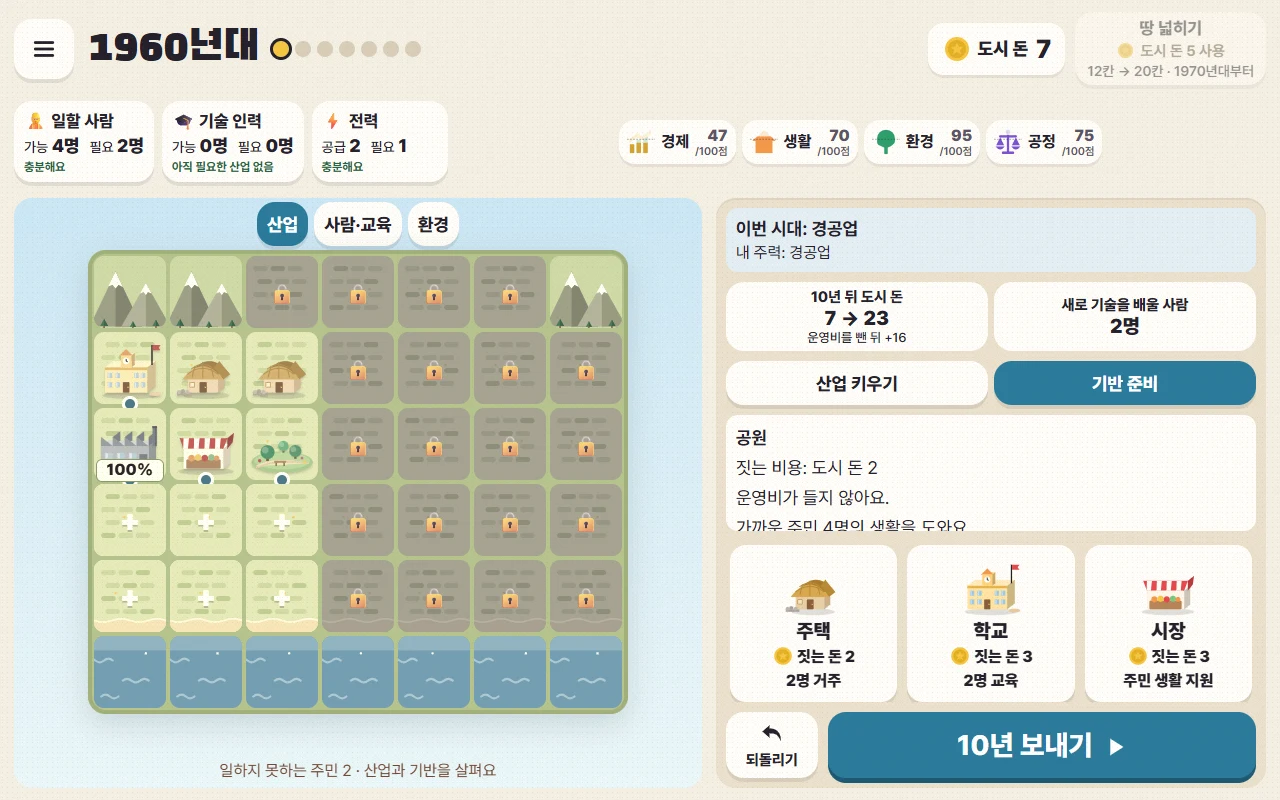
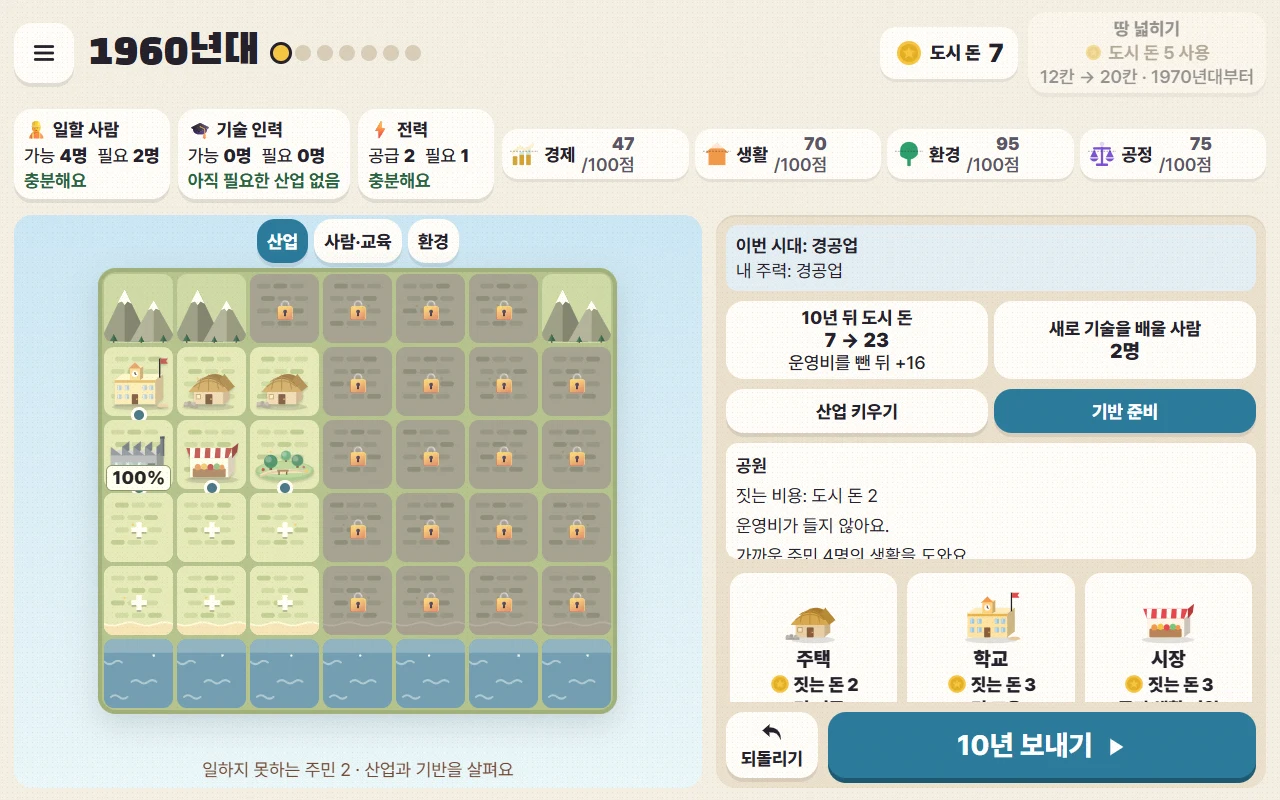
다온시 연습 단계별 숫자 안내와 18px 이상 글자 크기 보완

diff --git a/daon-city/css/style.css b/daon-city/css/style.css
@@ -1,5 +1,5 @@
 /* 다온시 70년 — 삼권 스와이프와 같은 페이퍼컷 톤 */
-:root{--paper:#F4EEE2;--paper-dark:#E9E0CF;--ink:#24212B;--soft:#5B5566;--white:#FFFDF8;--role:#2B7A9B;--role-dark:#1E5A73;--gold:#F5C542;--danger:#E5484D;--good:#2E9E6B;--shadow:0 10px 30px rgba(36,33,43,.15);--tile:80px;font-family:'Pretendard Variable',Pretendard,'Apple SD Gothic Neo','Malgun Gothic',sans-serif;color:var(--ink);background:var(--paper);font-synthesis:none}
+:root{--paper:#F4EEE2;--paper-dark:#E9E0CF;--ink:#24212B;--soft:#5B5566;--white:#FFFDF8;--role:#2B7A9B;--role-dark:#1E5A73;--gold:#F5C542;--danger:#E5484D;--good:#2E9E6B;--shadow:0 10px 30px rgba(36,33,43,.15);--tile:80px;font-family:'Pretendard Variable',Pretendard,'Apple SD Gothic Neo','Malgun Gothic',sans-serif;color:var(--ink);background:var(--paper);font-synthesis:none;font-size:18px}
 *{box-sizing:border-box;word-break:keep-all;overflow-wrap:anywhere}
 html,body{margin:0;min-height:100%;background:var(--paper)}
 body{overscroll-behavior:none;-webkit-tap-highlight-color:transparent}
@@ -21,7 +21,7 @@ button:focus-visible,a:focus-visible{outline:4px solid #DCA424;outline-offset:4p
 .icon-btn{width:60px;height:60px;min-height:60px;padding:12px;display:inline-grid;place-items:center;flex:none;border-radius:18px}
 a.icon-btn{background:var(--white);box-shadow:0 4px 0 #24212B18}
 .ico{width:28px;height:28px;flex:none}
-.count{font-size:.8em;color:var(--soft);margin-left:6px}
+.count{font-size:max(18px,.8em);color:var(--soft);margin-left:6px}
 #app{min-height:100dvh}
 
 /* ───── 타이틀 ───── */
@@ -160,7 +160,7 @@ a.icon-btn{background:var(--white);box-shadow:0 4px 0 #24212B18}
 .year-roll{position:absolute;left:50%;top:50%;transform:translate(-50%,-50%);z-index:5;white-space:nowrap;font-family:'Black Han Sans',sans-serif;font-size:clamp(64px,9vw,110px);color:var(--white);-webkit-text-stroke:3px var(--ink);text-shadow:0 6px 0 var(--ink);display:flex;gap:18px;pointer-events:none}
 .year-roll .gain{display:flex;align-items:center;gap:6px;white-space:nowrap;font-size:.55em;background:var(--white);-webkit-text-stroke:0;color:var(--ink);text-shadow:none;border-radius:20px;padding:6px 18px;box-shadow:var(--shadow)}
 .year-roll .gain .ico{width:46px;height:46px}
-.coin-chip{position:absolute;left:50%;top:10%;z-index:4;display:flex;align-items:center;gap:2px;transform:translateX(-50%);background:var(--white);border-radius:12px;padding:2px 8px;font-size:16px;font-weight:900;box-shadow:0 2px 6px #24212B40;animation:rise 1.4s ease-out both;pointer-events:none}
+.coin-chip{position:absolute;left:50%;top:10%;z-index:4;display:flex;align-items:center;gap:2px;transform:translateX(-50%);background:var(--white);border-radius:12px;padding:2px 8px;font-size:18px;font-weight:900;box-shadow:0 2px 6px #24212B40;animation:rise 1.4s ease-out both;pointer-events:none}
 .coin-chip .ico{width:18px;height:18px}
 @keyframes rise{from{opacity:0;transform:translate(-50%,10px)}20%{opacity:1}to{opacity:0;transform:translate(-50%,-46px)}}
 
@@ -271,8 +271,8 @@ a.icon-btn{background:var(--white);box-shadow:0 4px 0 #24212B18}
 .bdg .ico{width:48px;height:48px}
 .bdg h3{font-size:24px}.bdg p{font-size:18px;color:var(--soft)}
 .bdg.locked{background:#EFE7D8;border-color:#B9AE99;filter:grayscale(1)}
-.debug{position:fixed;left:6px;bottom:6px;z-index:80;display:flex;gap:6px;align-items:center;font-size:14px;background:#FFFDF8EE;border:1px dashed #555;border-radius:8px;padding:3px 6px;opacity:.5}
-.debug:hover{opacity:1}.debug button{font-size:14px;min-height:30px;padding:3px 8px;border-radius:6px}
+.debug{position:fixed;left:6px;bottom:6px;z-index:80;display:flex;gap:6px;align-items:center;font-size:18px;background:#FFFDF8EE;border:1px dashed #555;border-radius:8px;padding:3px 6px;opacity:.5}
+.debug:hover{opacity:1}.debug button{font-size:18px;min-height:30px;padding:3px 8px;border-radius:6px}
 
 /* ───── 세로 화면(태블릿 세로) ───── */
 @media (orientation:portrait){
@@ -376,40 +376,40 @@ a.icon-btn{background:var(--white);box-shadow:0 4px 0 #24212B18}
 .city-readiness .gauges{flex:1;min-width:0;gap:6px;margin:0}
 .city-readiness .gauge{min-height:44px;padding:4px 8px;gap:6px}
 .city-readiness .g-icon{width:28px;height:28px}
-.city-readiness .g-label,.city-readiness .g-num{font-size:16px}
+.city-readiness .g-label,.city-readiness .g-num{font-size:18px}
 .city-v2 .main,.city-v2 .tray{min-width:0}
 .city-v2 .tray{grid-template-rows:auto auto auto auto minmax(0,1fr) auto}
 .city-v2 .map-wrap{padding-top:52px;padding-bottom:74px;position:relative}
 .map-toolbar{display:flex;justify-content:center;gap:6px;position:absolute;top:4px;left:0;right:0;padding-bottom:8px}
 .map-toolbar button,.tray-tabs button{min-height:44px;padding:6px 10px;font-size:18px}
 .active{background:#2B7A9B;color:white}
-.city-warnings{position:absolute;bottom:4px;left:8px;right:8px;font-size:16px;line-height:1.4;text-align:center;color:#714935}
+.city-warnings{position:absolute;bottom:4px;left:8px;right:8px;font-size:18px;line-height:1.4;text-align:center;color:#714935}
 .city-warnings p{margin:2px 0}
 .industry-opportunity{background:#E3EDF3;padding:10px;border-radius:12px;font-size:18px}
-.industry-opportunity p{font-size:16px;margin-top:4px}
-.forecast small{display:block;font-size:16px;font-weight:500}
+.industry-opportunity p{font-size:18px;margin-top:4px}
+.forecast small{display:block;font-size:18px;font-weight:500}
 .tray-tabs{display:flex;gap:6px}.tray-tabs button{flex:1}
-.city-v2 .info-hint,.city-v2 .card .c-fx .fx,.city-v2 .card .c-fx b{font-size:16px}
+.city-v2 .info-hint,.city-v2 .card .c-fx .fx,.city-v2 .card .c-fx b{font-size:18px}
 .tile.unopened>.ter{filter:grayscale(.7) brightness(.7)}
 .land-lock{position:absolute;inset:0;display:grid;place-items:center;font-size:20px;pointer-events:none}
-.tile-status{position:absolute;bottom:-2px;left:2px;right:2px;font-size:clamp(12px,1.5vw,16px);font-weight:900;background:#F6FFED;border:1px solid #79985D;border-radius:6px;line-height:1.3;z-index:2;pointer-events:none}
+.tile-status{position:absolute;bottom:-2px;left:2px;right:2px;font-size:clamp(18px,1.5vw,18px);font-weight:900;background:#F6FFED;border:1px solid #79985D;border-radius:6px;line-height:1.3;z-index:2;pointer-events:none}
 .tile-status.short{background:#FFF0DA;border-color:#CD7A35;color:#85421C}
 .tile-alert{position:absolute;top:-5px;left:-5px;font-size:21px;z-index:3;pointer-events:none}
-.tile-level{position:absolute;top:-3px;right:1px;font-size:16px;font-weight:900;background:#F5C542;border-radius:5px;padding:0 4px;z-index:2}
+.tile-level{position:absolute;top:-3px;right:1px;font-size:18px;font-weight:900;background:#F5C542;border-radius:5px;padding:0 4px;z-index:2}
 .tile.lens-good{outline:3px solid #478FBE;outline-offset:-3px}.tile.lens-bad{outline:3px solid #E28348;outline-offset:-3px}
 .tile.in-range,.tile.preview-range{box-shadow:inset 0 0 0 4px #6B9BD9}.tile.can-convert{outline:3px dashed #9668A7}
 .tile .bld{filter:drop-shadow(0 2px 1px #24212B30)}
 .city-v2 .pop{max-height:calc(100dvh - 24px);overflow:auto}
 .city-v2 .pop-actions{display:flex;flex-wrap:wrap;gap:6px}
-.city-v2 .pop-actions button{font-size:17px;padding:8px;min-height:44px}
-.expand-btn{font-size:16px;padding:8px;min-height:44px}
+.city-v2 .pop-actions button{font-size:18px;padding:8px;min-height:44px}
+.expand-btn{font-size:18px;padding:8px;min-height:44px}
 .era-report{font-size:18px;line-height:1.4;background:#EDF3E7;padding:12px;border-radius:12px;margin:10px 0}
 .industry-record{font-size:18px;text-align:center}.v2-title-note{font-size:22px}
-.legacy-note{font-size:16px;color:var(--soft);max-width:500px;text-align:center}
+.legacy-note{font-size:18px;color:var(--soft);max-width:500px;text-align:center}
 .end-photo>.bld{height:140px;width:100%;padding:12px}.final-map .map{--tile:clamp(24px,4vw,60px)}
 @media(max-width:1000px){
- .city-readiness .gauges{flex-basis:100%}.city-readiness>button{flex:1;font-size:16px}
- .industry-opportunity{font-size:16px}.forecast{font-size:18px}.tray-tabs button{font-size:16px}
+ .city-readiness .gauges{flex-basis:100%}.city-readiness>button{flex:1;font-size:18px}
+ .industry-opportunity{font-size:18px}.forecast{font-size:18px}.tray-tabs button{font-size:18px}
 }
 @media(orientation:portrait){
  .city-v2{height:auto;min-height:100dvh;overflow:visible;padding-bottom:106px}
@@ -419,41 +419,41 @@ a.icon-btn{background:var(--white);box-shadow:0 4px 0 #24212B18}
 }
 @media(max-width:700px){
  .city-v2 .main{display:flex;flex-direction:column}.city-v2 .map-wrap{height:410px;min-height:410px;padding:54px 0 74px}
- .city-v2 .city-readiness{gap:4px}.city-readiness>button{font-size:14px;white-space:nowrap;flex:1;padding:6px 4px}
+ .city-v2 .city-readiness{gap:4px}.city-readiness>button{font-size:18px;white-space:nowrap;flex:1;padding:6px 4px}
  .city-readiness .gauges{flex-wrap:nowrap}.city-readiness .gauge{flex:1;min-width:0;gap:3px;padding:4px}
- .city-readiness .g-icon{width:22px;height:22px}.city-readiness .g-label,.city-readiness .g-num{font-size:14px;white-space:nowrap}
+ .city-readiness .g-icon{width:22px;height:22px}.city-readiness .g-label,.city-readiness .g-num{font-size:18px;white-space:nowrap}
  .city-v2 .decade{display:block}.city-v2 .timeline{margin-top:6px}
- .map-toolbar button{font-size:16px}.city-v2 .res{min-width:0;gap:4px}
- .city-v2 .res-item{padding:6px 4px;min-height:44px}.city-v2 .res-item b{font-size:20px}.expand-btn{font-size:14px;padding:6px 8px}
- .city-v2 .cards,.city-v2 .tray{max-height:none}.tile-status{font-size:12px}
+ .map-toolbar button{font-size:18px}.city-v2 .res{min-width:0;gap:4px}
+ .city-v2 .res-item{padding:6px 4px;min-height:44px}.city-v2 .res-item b{font-size:20px}.expand-btn{font-size:18px;padding:6px 8px}
+ .city-v2 .cards,.city-v2 .tray{max-height:none}.tile-status{font-size:18px}
 }
 
 .city-v2 .card.locked .c-fx{visibility:hidden}
 
-@media(max-width:700px){.city-readiness>button b{display:block;font-size:18px}.city-readiness>button{font-size:13px}}
+@media(max-width:700px){.city-readiness>button b{display:block;font-size:18px}.city-readiness>button{font-size:18px}}
 
 /* 뜻·상태·행동을 분리한 숫자 안내와 직접 조작 연습. */
 .city-v2 .res-item{font-size:18px}.city-v2 .res-item span{display:flex;align-items:center;gap:8px}.city-v2 .res-item b{font-size:26px}
-.action-cost{display:flex;align-items:center;justify-content:center;gap:5px;font-size:15px;font-weight:700;color:#65553B}.action-cost .ico{width:19px;height:19px}
-.expand-btn{display:grid;gap:3px;min-width:178px;text-align:center;font-size:17px;padding:6px 12px}.expand-btn small{font-size:14px;font-weight:600}
-.city-readiness .readiness-card{display:grid;gap:4px;min-width:136px;text-align:left;padding:8px 10px;font-size:17px}
-.metric-title{font-weight:800}.metric-numbers{display:flex;gap:10px;font-size:14px;font-weight:500;white-space:nowrap}.metric-numbers b{font-size:18px;font-weight:900}
-.readiness-card>small{font-size:12px;color:#286342;font-weight:700}.readiness-card>small.short{color:#A3472C}.g-num small{display:block;font-size:11px;font-weight:600}
-.city-v2 .forecast{display:flex;gap:6px;align-items:stretch}.forecast>button{flex:1;font-size:15px;min-height:44px;padding:6px;background:#FFFDF8;box-shadow:none}.forecast>button b{display:block;font-size:20px}.forecast>button small{font-size:13px}
-.city-v2 .cost{font-size:16px;gap:3px}.city-v2 .card .c-row{flex-wrap:wrap}.info-lines details{margin-top:8px}.info-lines summary,.help-clear summary{cursor:pointer;font-size:16px;line-height:1.5;font-weight:700;color:#2B7A9B}
+.action-cost{display:flex;align-items:center;justify-content:center;gap:5px;font-size:18px;font-weight:700;color:#65553B}.action-cost .ico{width:19px;height:19px}
+.expand-btn{display:grid;gap:3px;min-width:178px;text-align:center;font-size:18px;padding:6px 12px}.expand-btn small{font-size:18px;font-weight:600}
+.city-readiness .readiness-card{display:grid;gap:4px;min-width:136px;text-align:left;padding:8px 10px;font-size:18px}
+.metric-title{font-weight:800}.metric-numbers{display:flex;gap:10px;font-size:18px;font-weight:500;white-space:nowrap}.metric-numbers b{font-size:18px;font-weight:900}
+.readiness-card>small{font-size:18px;color:#286342;font-weight:700}.readiness-card>small.short{color:#A3472C}.g-num small{display:block;font-size:18px;font-weight:600}
+.city-v2 .forecast{display:flex;gap:6px;align-items:stretch}.forecast>button{flex:1;font-size:18px;min-height:44px;padding:6px;background:#FFFDF8;box-shadow:none}.forecast>button b{display:block;font-size:20px}.forecast>button small{font-size:18px}
+.city-v2 .cost{font-size:18px;gap:3px}.city-v2 .card .c-row{flex-wrap:wrap}.info-lines details{margin-top:8px}.info-lines summary,.help-clear summary{cursor:pointer;font-size:18px;line-height:1.5;font-weight:700;color:#2B7A9B}
 .city-v2 .pop{width:min(420px,calc(100vw - 16px));padding:12px;animation:none}.city-v2 .pop-head{position:sticky;top:-12px;z-index:2;background:#FFFDF8;padding:6px 0;margin-bottom:8px}.pop-head b{flex:1}.pop-head .icon-btn{box-shadow:none}
-.city-v2 .pop-actions{display:grid;grid-template-columns:1fr;gap:8px}.city-v2 .pop-actions .operation{display:grid;gap:4px;min-height:72px;padding:8px 10px;text-align:left;border:1px solid #D9C9AE;background:#F7F1E6;box-shadow:none}.operation strong{font-size:18px}.operation .action-cost{justify-content:flex-start}.operation small{font-size:15px;font-weight:500;line-height:1.4}
-.upgrade-done{padding:8px;background:#E9F1E4;border-radius:10px;font-size:16px}.operation-note{font-size:14px;line-height:1.4;color:#655E69;margin-top:10px}
-.help-clear{gap:14px}.help-clear h2{font-size:30px}.help-clear .help-meaning{font-size:19px;line-height:1.5}.help-compare{display:grid;grid-template-columns:1fr 1fr;gap:12px}.help-compare>div{background:#FFFDF8;border:2px solid #D8CFBD;border-radius:16px;padding:14px;display:grid;gap:10px}.help-compare span{font-size:17px;line-height:1.4}.help-compare strong{font-size:36px;line-height:1.2;color:#2B7A9B}
-.help-clear .help-status{font-size:21px;font-weight:800;background:#EDF3E6;border-radius:14px;padding:12px}.help-advice{background:#E3EDF3;border-radius:14px;padding:14px}.help-advice>b{display:block;font-size:17px;margin-bottom:6px}.help-clear .help-advice p{font-size:19px;line-height:1.5}.help-clear details p{font-size:17px;margin-top:6px}.help-buttons{display:flex;gap:10px;flex-wrap:wrap}.help-buttons button{flex:1;font-size:19px;min-height:48px;padding:10px 16px}
-.help-score{display:grid;gap:6px;padding:14px;background:#FFFDF8;border-radius:16px}.help-score strong{font-size:38px;color:#2B7A9B}.help-score strong small{font-size:18px;color:#5B5566}.help-score meter{width:100%;height:22px}.help-score>span{font-size:16px}
-.city-v2 .tray-foot .undo-labeled{width:92px;display:grid;gap:2px;padding:8px}.undo-labeled .ico{width:24px;height:24px;margin:auto}.undo-labeled small{font-size:15px}
-.practice-entry{font-size:22px}.practice-panel{padding:10px 12px;background:#E2EFF4;border:2px solid #2B7A9B;border-radius:14px;font-size:17px;line-height:1.4}.practice-heading{display:flex;align-items:center;justify-content:space-between;gap:8px}.practice-heading .text-btn{font-size:14px;min-height:36px;padding:6px}.practice-panel>strong{display:block;font-size:19px;margin:5px 0}.practice-panel>p{font-size:16px}.practice-panel>small{display:block;font-size:13px;margin-top:6px}.practice-panel>.primary{font-size:17px;padding:8px;min-height:44px;margin-top:6px}
+.city-v2 .pop-actions{display:grid;grid-template-columns:1fr;gap:8px}.city-v2 .pop-actions .operation{display:grid;gap:4px;min-height:72px;padding:8px 10px;text-align:left;border:1px solid #D9C9AE;background:#F7F1E6;box-shadow:none}.operation strong{font-size:18px}.operation .action-cost{justify-content:flex-start}.operation small{font-size:18px;font-weight:500;line-height:1.4}
+.upgrade-done{padding:8px;background:#E9F1E4;border-radius:10px;font-size:18px}.operation-note{font-size:18px;line-height:1.4;color:#655E69;margin-top:10px}
+.help-clear{gap:14px}.help-clear h2{font-size:30px}.help-clear .help-meaning{font-size:19px;line-height:1.5}.help-compare{display:grid;grid-template-columns:1fr 1fr;gap:12px}.help-compare>div{background:#FFFDF8;border:2px solid #D8CFBD;border-radius:16px;padding:14px;display:grid;gap:10px}.help-compare span{font-size:18px;line-height:1.4}.help-compare strong{font-size:36px;line-height:1.2;color:#2B7A9B}
+.help-clear .help-status{font-size:21px;font-weight:800;background:#EDF3E6;border-radius:14px;padding:12px}.help-advice{background:#E3EDF3;border-radius:14px;padding:14px}.help-advice>b{display:block;font-size:18px;margin-bottom:6px}.help-clear .help-advice p{font-size:19px;line-height:1.5}.help-clear details p{font-size:18px;margin-top:6px}.help-buttons{display:flex;gap:10px;flex-wrap:wrap}.help-buttons button{flex:1;font-size:19px;min-height:48px;padding:10px 16px}
+.help-score{display:grid;gap:6px;padding:14px;background:#FFFDF8;border-radius:16px}.help-score strong{font-size:38px;color:#2B7A9B}.help-score strong small{font-size:18px;color:#5B5566}.help-score meter{width:100%;height:22px}.help-score>span{font-size:18px}
+.city-v2 .tray-foot .undo-labeled{width:92px;display:grid;gap:2px;padding:8px}.undo-labeled .ico{width:24px;height:24px;margin:auto}.undo-labeled small{font-size:18px}
+.practice-entry{font-size:22px}.practice-panel{padding:10px 12px;background:#E2EFF4;border:2px solid #2B7A9B;border-radius:14px;font-size:18px;line-height:1.4}.practice-heading{display:flex;align-items:center;justify-content:space-between;gap:8px}.practice-heading .text-btn{font-size:18px;min-height:36px;padding:6px}.practice-panel>strong{display:block;font-size:19px;margin:5px 0}.practice-panel>p{font-size:18px}.practice-panel>small{display:block;font-size:18px;margin-top:6px}.practice-panel>.primary{font-size:18px;padding:8px;min-height:44px;margin-top:6px}
 .tile.lesson-target{outline:4px solid #F5C542;outline-offset:2px;z-index:3;box-shadow:0 0 0 7px #FFFDF8;animation:lesson-glow 1.3s ease-in-out infinite}.lesson-success{font-size:18px;font-weight:800;color:#286342}.practice-feedback h2{font-size:30px}.practice-feedback p,.practice-complete p{font-size:21px;line-height:1.5}
 @keyframes lesson-glow{50%{box-shadow:0 0 0 7px #F5C54288}}
 @media(max-width:1100px){.city-readiness .gauges{flex-basis:100%}.city-readiness .readiness-card{flex:1}}
 @media(orientation:portrait){.city-v2 .building-info{max-height:160px}}
-@media(max-width:700px){.city-v2 .res{width:100%}.city-v2 .res-item{padding:8px;font-size:16px}.city-v2 .res-item span{display:grid;gap:0}.city-v2 .res-item b{font-size:24px}.expand-btn{min-width:0;font-size:16px}.city-readiness .readiness-card{min-width:0;padding:6px 4px;font-size:13px;gap:4px;text-align:center}.metric-numbers{display:grid;gap:0;white-space:normal;font-size:12px}.city-readiness .readiness-card .metric-numbers b{display:inline;font-size:17px}.readiness-card>small{font-size:11px;white-space:normal}.city-v2 .tray-foot .go{font-size:22px;padding:10px}.help-clear h2,.practice-feedback h2{font-size:25px}.help-compare{gap:8px}.help-compare>div{padding:10px}.help-compare span{font-size:15px}.help-compare strong{font-size:30px}.help-buttons{display:grid;grid-template-columns:1fr}.help-clear .help-meaning,.help-clear .help-advice p{font-size:18px}.help-clear .help-status{font-size:19px}.help-clear .help-score strong{font-size:34px}.practice-panel>p{font-size:16px}}
+@media(max-width:700px){.city-v2 .res{width:100%}.city-v2 .res-item{padding:8px;font-size:18px}.city-v2 .res-item span{display:grid;gap:0}.city-v2 .res-item b{font-size:24px}.expand-btn{min-width:0;font-size:18px}.city-readiness .readiness-card{min-width:0;padding:6px 4px;font-size:18px;gap:4px;text-align:center}.metric-numbers{display:grid;gap:0;white-space:normal;font-size:18px}.city-readiness .readiness-card .metric-numbers b{display:inline;font-size:18px}.readiness-card>small{font-size:18px;white-space:normal}.city-v2 .tray-foot .go{font-size:22px;padding:10px}.help-clear h2,.practice-feedback h2{font-size:25px}.help-compare{gap:8px}.help-compare>div{padding:10px}.help-compare span{font-size:18px}.help-compare strong{font-size:30px}.help-buttons{display:grid;grid-template-columns:1fr}.help-clear .help-meaning,.help-clear .help-advice p{font-size:18px}.help-clear .help-status{font-size:19px}.help-clear .help-score strong{font-size:34px}.practice-panel>p{font-size:18px}}
 
 .practice-city{grid-template-rows:auto auto auto minmax(0,1fr)}
 .practice-city[data-lesson-kind="advance"] [data-action="advance"],.practice-city[data-lesson-kind="expand"] [data-action="expand"],.practice-city[data-lesson-kind="upgrade"] [data-action="pop-upgrade"],.practice-city[data-lesson-kind="move"] [data-action="pop-move"]{outline:4px solid #E6AF15;outline-offset:3px}
@@ -461,4 +461,21 @@ a.icon-btn{background:var(--white);box-shadow:0 4px 0 #24212B18}
 
 .city-v2 .pop{transition-property:none}
 
-.city-v2 .building-info{max-height:116px}.practice-city .tray{grid-template-rows:auto auto minmax(0,1fr) auto}
+.city-v2 .building-info{max-height:116px}.practice-city .tray{grid-template-rows:minmax(0,1fr) auto}
+
+/* 글씨를 줄이지 않고 설명과 숫자를 읽을 수 있는 폭으로 줄바꿈한다. */
+.city-readiness .gauges{flex-wrap:wrap}.city-readiness .gauge{flex:1 1 116px}
+.city-readiness .g-label,.city-readiness .g-num{white-space:normal}.city-readiness .metric-numbers{white-space:normal;flex-wrap:wrap}
+.practice-city .cards{grid-template-columns:minmax(0,1fr)}
+.practice-numbers{background:#FFFDF8;border:2px solid #92B8C7;border-radius:16px;padding:12px;display:grid;gap:10px;line-height:1.4}
+.practice-numbers h3{font-size:24px;color:#236B86}.practice-numbers>div{display:grid;grid-template-columns:1fr 1fr;gap:12px}
+.practice-numbers>div>div{display:flex;flex-direction:column;gap:6px;background:#EAF3F6;border-radius:12px;padding:12px}
+.practice-numbers span,.practice-numbers p{font-size:20px}.practice-numbers strong{font-size:36px;color:#236B86}
+.practice-city .card{display:grid;grid-template-columns:84px minmax(0,1fr);text-align:left;gap:8px}
+.practice-city .card .c-icon{grid-row:1/4;width:84px;height:84px}.practice-city .card .c-name{text-align:left}
+@media(max-width:700px){.city-readiness .readiness-card{flex:1 1 130px;white-space:normal}.practice-numbers{padding:12px;gap:12px}.practice-numbers span,.practice-numbers p{font-size:18px}.practice-numbers strong{font-size:30px}.practice-numbers>div{gap:8px}}
+
+.practice-numbers{gap:8px}.practice-numbers>div{gap:8px}.practice-numbers>div>div{padding:8px;gap:4px}.practice-numbers span,.practice-numbers p,.practice-numbers summary{font-size:18px}.practice-numbers summary{cursor:pointer;color:#236B86;font-weight:800}.practice-numbers details p{margin-top:6px}
+
+/* 연습은 사람·기술·전력에 집중하고 도시의 종합 평가는 본 게임에서 본다. */
+.practice-city .city-readiness .gauges{display:none}.practice-city .readiness-card{padding:6px 10px;gap:2px}.practice-numbers{gap:6px}

diff --git a/daon-city/js/game.js b/daon-city/js/game.js
@@ -262,9 +262,9 @@
         <div class="res"><button data-action="help" data-help="money" class="res-item money-res" aria-label="도시 돈 ${G.money}, 도움말">${icon('coin')}<span>도시 돈 <b class="money-amount">${G.money}</b></span></button>${btn('expand', expansion, 'expand-btn', G.land >= 2 || d < (G.land === 0 ? 1 : 3) || G.money < D.rules.expandCost[G.land] ? 'disabled' : '')}</div></header>
       <div class="city-readiness">${metric('people', '👷 일할 사람', forecast.workers, forecast.jobs, '명')}${metric('tech', '🎓 기술 인력', forecast.skilled, forecast.skilledNeed, '명')}${metric('power', '⚡ 전력', forecast.supply, forecast.energy, '', '공급')}${gaugesHtml(g)}</div>${practice ? practicePanel() : ''}
       <div class="main"><div class="map-wrap"><div class="map-toolbar">${relocating !== null ? btn('cancel-move', '옮기기 취소', 'secondary') : [['industry', '산업'], ['people', '사람·교육'], ['env', '환경']].map(([id, label]) => btn('lens', label, lens === id ? 'active' : '', `data-lens="${id}" aria-pressed="${lens === id}"`)).join('')}</div>${mapHtml()}<div class="city-warnings" role="status">${relocating !== null ? '빈 땅을 누르면 건물이 옮겨져요 · 도시 돈 2 사용' : forecast.warnings.map(v => `<p>${esc(v)}</p>`).join('') || '<p>도시의 기반이 준비됐어요. 산업의 기회를 살펴봐요.</p>'}</div></div>
-      <aside class="tray">${practice ? '' : `<div class="industry-opportunity"><b>이번 시대: ${D.categories[era(d).real].name}</b><p>내 주력: ${leaders.length ? D.categories[leaders[0][0]].name : '첫 산업을 준비해요'}</p></div>`}<div class="forecast"><button data-action="help" data-help="money">10년 뒤 도시 돈 <b>${G.money} → ${Math.max(0, G.money + forecast.income)}</b><small>운영비를 뺀 뒤 ${forecast.income >= 0 ? '+' : ''}${forecast.income}</small></button><button data-action="help" data-help="tech">새로 기술을 배울 사람 <b>${forecast.techGain}명</b></button></div>
-      <div class="tray-tabs">${btn('tray', '산업 키우기', trayMode === 'industry' ? 'active' : '', 'data-tray="industry"')}${btn('tray', '기반 준비', trayMode === 'support' ? 'active' : '', 'data-tray="support"')}</div>
-      ${sel && !practice ? `<section class="building-info"><strong>${B[sel].name}</strong>${buildingInfo(sel)}</section>` : practice ? '' : '<div class="info-hint">카드·건물·숫자를 누르면 뜻과 할 일을 알려 줘요.</div>'}<div class="cards" role="list">${cards.map(cardHtml).join('')}</div>
+      <aside class="tray">${practice ? '' : `<div class="industry-opportunity"><b>이번 시대: ${D.categories[era(d).real].name}</b><p>내 주력: ${leaders.length ? D.categories[leaders[0][0]].name : '첫 산업을 준비해요'}</p></div>`}${practice ? '' : `<div class="forecast"><button data-action="help" data-help="money">10년 뒤 도시 돈 <b>${G.money} → ${Math.max(0, G.money + forecast.income)}</b><small>운영비를 뺀 뒤 ${forecast.income >= 0 ? '+' : ''}${forecast.income}</small></button><button data-action="help" data-help="tech">새로 기술을 배울 사람 <b>${forecast.techGain}명</b></button></div>
+      <div class="tray-tabs">${btn('tray', '산업 키우기', trayMode === 'industry' ? 'active' : '', 'data-tray="industry"')}${btn('tray', '기반 준비', trayMode === 'support' ? 'active' : '', 'data-tray="support"')}</div>`}
+      ${sel && !practice ? `<section class="building-info"><strong>${B[sel].name}</strong>${buildingInfo(sel)}</section>` : practice ? '' : '<div class="info-hint">카드·건물·숫자를 누르면 뜻과 할 일을 알려 줘요.</div>'}<div class="cards" role="list">${practice ? practiceNumbers() : ''}${cards.map(cardHtml).join('')}</div>
       <div class="tray-foot">${btn('undo', `${icon('undo')}<small>되돌리기</small>`, 'icon-btn undo-labeled', `aria-label="계획 되돌리기, 쓴 돈 돌려받기" ${G.actions.length && !practice ? '' : 'disabled'}`)}${btn('advance', `10년 보내기 ${icon('play')}`, 'primary go')}</div></aside></div>${pop !== null ? popHtml() : ''}</section>`);
     fitMap(); positionPop(); if (matchMedia('(orientation: portrait)').matches) { const c = app.querySelector('.card.sel'), cards = app.querySelector('.cards'); if (c && cards) cards.scrollLeft = c.offsetLeft - cards.offsetLeft; }
     if (practice) { app.querySelector('[data-action="expand"]').disabled ||= practice.pending || PRACTICE[practice.step].kind !== 'expand'; app.querySelector('[data-action="advance"]').disabled = practice.pending || PRACTICE[practice.step].kind !== 'advance'; checkPractice(); }
@@ -513,11 +513,11 @@
   /* ───── 기존 도시와 저장을 건드리지 않는 직접 조작 연습 ───── */
   const PRACTICE = [
     { kind: 'place', card: 'textile', tile: 21, title: '돈을 써서 첫 산업 짓기', task: '섬유 공장 카드를 고른 뒤 빛나는 땅을 눌러요. 짓는 돈 3이 무슨 뜻인지 확인해요.' },
-    { kind: 'place', card: 'school', tile: 7, title: '학교로 다음 산업 준비하기', task: '기반 준비에서 학교를 골라 주택 옆 빛나는 땅에 지어요. 기술은 배우는 시간이 필요해요.' },
+    { kind: 'place', card: 'school', tile: 7, title: '학교로 다음 산업 준비하기', task: '학교 카드를 골라 주택 옆 빛나는 땅에 지어요. 기술은 배우는 시간이 필요해요.' },
     { kind: 'upgrade', tile: 8, title: '같은 땅에서 집 키우기', task: '빛나는 주택을 누르고 건물 키우기를 골라요. 쓸 돈과 늘어나는 인원은 서로 다른 숫자예요.' },
     { kind: 'advance', title: '10년 운영한 결과 보기', task: '10년 보내기를 눌러요. 산업이 돈을 벌고, 학교의 주민이 기술을 배워요.' },
     { kind: 'place', card: 'steel', tile: 22, title: '새 산업에 필요한 전력 읽기', task: '1970년대의 제철소를 빛나는 땅에 지어요. 가능한 사람과 필요한 전력을 비교해요.' },
-    { kind: 'place', card: 'power', tile: 28, title: '부족한 전력 채우기', task: '기반 준비에서 화력 발전소를 골라 빛나는 땅에 지어요. 공장이 얼마나 돌아가는지 다시 확인해요.' },
+    { kind: 'place', card: 'power', tile: 28, title: '부족한 전력 채우기', task: '화력 발전소 카드를 골라 빛나는 땅에 지어요. 공장이 얼마나 돌아가는지 다시 확인해요.' },
     { kind: 'move', tile: 22, to: 30, title: '오염 피해 주택 지키기', task: '😷 주택 가까이 있는 빛나는 제철소를 누르고 다른 땅으로 옮기기를 골라요. 새로 빛나는 빈 땅으로 옮겨요.' },
     { kind: 'expand', title: '돈과 땅의 칸 수 구분하기', task: '땅 넓히기를 눌러요. 도시 돈 5를 쓰면 땅이 5칸 늘어나는 것인지 확인해요.' }
   ];
@@ -534,7 +534,21 @@
   }
   function practicePanel() {
     const step = PRACTICE[practice.step];
-    return `<section class="practice-panel" aria-label="연습 안내"><div class="practice-heading"><b>연습 ${practice.step + 1}/${PRACTICE.length}</b>${btn('practice-exit', '연습 나가기', 'text-btn')}</div><strong>${step.title}</strong><p>${step.task}</p><small>연습용 도시예요. 내 도시 저장과 엔딩 도감은 그대로예요.</small>${practice.pending ? btn('practice-next', '다음 연습으로', 'primary') : ''}</section>`;
+    return `<section class="practice-panel" aria-label="연습 안내"><div class="practice-heading"><b>연습 ${practice.step + 1}/${PRACTICE.length}</b>${btn('practice-exit', '연습 나가기', 'text-btn')}</div><strong>${step.title}</strong><small>연습용 도시예요. 내 도시 저장과 엔딩 도감은 그대로예요.</small>${practice.pending ? btn('practice-next', '다음 연습으로', 'primary') : ''}</section>`;
+  }
+  function practiceNumbers() {
+    const p = E.production(G), steel = p.industries.find(r => r.id === 'steel');
+    const focus = [
+      [['지금 가진 도시 돈', G.money], ['공장 짓는 비용', `${B.textile.cost} 사용`], '돈은 건물을 짓는 비용이에요. 일자리 2개는 공장에서 일할 사람 수예요.'],
+      [['지금 기술을 배운 사람', `${p.skilled}명`], ['학교의 교육 자리', `${B.school.education}명`], '학교를 지은 뒤 10년을 보내야 주민이 기술을 배워요.'],
+      [['이 주택의 살 곳', `${B.house.homes * E.level(G.tiles[8])}명`], ['집 키우는 비용', `${B.house.cost} 사용`], '살 곳을 늘리면 더 많은 주민이 살 수 있어요. 일자리도 함께 준비해요.'],
+      [['10년 뒤 받을 도시 돈', `${p.income >= 0 ? '+' : ''}${p.income}`], ['새로 기술을 배울 사람', `${p.techGain}명`], '산업이 번 돈에서 운영비를 뺀 결과예요. 배운 기술은 다음 산업의 준비가 돼요.'],
+      [['공급하는 전력', p.supply], ['공장이 쓰는 전력', p.energy], '제철소를 지은 뒤 두 숫자를 비교해요. 전력이 부족하면 생산량이 줄어요.'],
+      [['제철소가 돌아가는 정도', `${Math.round((steel?.rate || 0) * 100)}%`], ['오염 피해 주택', `${p.exposed.length}곳`], '발전소로 생산량을 늘려요. 😷 표시가 뜨는 주택의 피해도 함께 확인해요.'],
+      [['오염 피해 주택', `${p.exposed.length}곳`], ['공장을 옮기는 비용', '2 사용'], '공장을 주택에서 멀리 옮겨요. 피해 주택 수가 어떻게 바뀌는지 살펴요.'],
+      [['지금 건설 가능한 땅', `${landCount(G.land)}칸`], ['땅을 넓히는 비용', `${D.rules.expandCost[0]} 사용`], '5는 쓸 돈이에요. 땅의 넓이는 칸으로 읽어요. 비용과 효과를 구분해요.']
+    ][practice.step];
+    return `<section class="practice-numbers" role="listitem" aria-label="지금 볼 숫자"><h3>지금 볼 숫자</h3><div>${focus.slice(0, 2).map(([label, value]) => `<div><span>${label}</span><strong>${value}</strong></div>`).join('')}</div><p>${PRACTICE[practice.step].task}</p><details><summary>이 숫자의 뜻</summary><p>${focus[2]}</p></details></section>`;
   }
   function checkPractice() {
     if (practice.pending) return;

diff --git a/daon-city/tests/verify-learning.py b/daon-city/tests/verify-learning.py
@@ -28,6 +28,8 @@ with sync_playwright() as pw:
           localStorage.setItem('daon-city-v2-game',JSON.stringify(s));localStorage.setItem('daon-city-v2',JSON.stringify({endings:['tech'],badges:['history'],tutorialSeen:true,sound:false}));localStorage.setItem('daon-city-v1-game','옛 기록');
         }""");p.reload();before=stores(p);click(p,'continue')
         assert '도시 돈' in p.locator('.money-res').inner_text()
+        small=p.locator('.city-v2').evaluate("""el=>[...el.querySelectorAll('*')].filter(n=>!n.closest('svg')&&n.checkVisibility()&&[...n.childNodes].some(c=>c.nodeType===3&&c.textContent.trim())&&parseFloat(getComputedStyle(n).fontSize)<18).map(n=>({text:n.textContent,size:getComputedStyle(n).fontSize}))""")
+        assert not small,small
         assert '사용' in p.locator('[data-action="expand"]').inner_text() and '12칸 → 20칸' in p.locator('[data-action="expand"]').inner_text()
         for key in ['people','tech','power','money','econ','life','env','fair']:
             p.locator(f'[data-action="help"][data-help="{key}"]').first.click();p.wait_for_selector('.help-clear')
@@ -42,6 +44,14 @@ with sync_playwright() as pw:
         if w>=h:
             assert p.locator('.tray-foot').bounding_box()['y']+p.locator('.tray-foot').bounding_box()['height']<=h+1
         assert stores(p)==before
+        assert p.locator('.practice-numbers').count()==1 and '18' in p.locator('.practice-numbers').inner_text()
+        small=p.locator('.city-v2').evaluate("""el=>[...el.querySelectorAll('*')].filter(n=>!n.closest('svg')&&n.checkVisibility()&&[...n.childNodes].some(c=>c.nodeType===3&&c.textContent.trim())&&parseFloat(getComputedStyle(n).fontSize)<18).map(n=>({text:n.textContent,size:getComputedStyle(n).fontSize}))""")
+        assert not small,small
+        assert p.evaluate('document.documentElement.scrollWidth<=innerWidth+1')
+        if w>=h:
+            rect=p.locator('.card').bounding_box();foot=p.locator('.tray-foot').bounding_box()
+            assert rect['y']+rect['height']<=foot['y']+1,(rect,foot)
+        shot(p,f'practice-numbers-{w}')
         # 다른 땅을 누르거나 다음 시대를 먼저 보낼 수 없다.
         assert p.locator('[data-action="advance"]').is_disabled()
         p.locator('[data-card="textile"]').click();p.locator('[data-tile="14"]').click();assert not p.locator('.practice-feedback').count()

diff --git a/daon-city/DESIGN-V2.md b/daon-city/DESIGN-V2.md
@@ -404,3 +404,11 @@
 - `verify-learning.py`: 1280×800, 1024×768, 768×1024, 390×844, 320×568에서 8단계 완주, 도움말, 비용/효과 표기, 중도 종료·완료 시 저장/도감 보존, 새 사용자 시작, 설명 창을 닫은 뒤 이어가기 검사 통과. 실행 오류 0.
 - 기존 엔진 검사와 실제 버튼으로 본 게임 7시대 완주·산업 전환·저장 재개 검사 통과. 설명서의 숫자 읽기와 연습 안내를 실제 사진으로 갱신하고 PC/휴대폰의 링크·사진·표시를 확인했다.
 - 실제 학생이 각 수치와 선택 이유를 이해하는지에 대한 관찰은 아직 하지 않았다. 연습 후에도 설명하기 어려운 수치는 통합·생략할지 판단한다.
+
+
+### 캡처 검토 후 연습 화면과 글자 크기 보완
+
+- PC의 비어 있던 연습 카드 영역에 **지금 볼 숫자**를 크게 표시한다. 현재 도시 돈·짓는 비용, 교육 자리, 주택 인원, 10년 수입·새 기술 인력, 전력 공급·필요량, 제철소 가동률·피해 주택, 이전 비용, 땅의 칸 수를 해당 단계와 실제 도시 상태에 맞춰 보여 준다.
+- 연습 중에는 중복 예측·탭을 빼고 종합 평가 대신 사람·기술·전력에 집중한다. 단계의 실제 조작 안내는 숫자 카드에 두고 추가 설명은 펼쳐 읽는다. 본 게임의 종합 평가는 유지한다.
+- 보조 문구·단위·100점 만점 표기·비용·도움말과 작은 화면의 글씨까지 18px 이상을 유지한다. 글씨를 줄이는 대신 줄바꿈과 행 배치를 조정했다.
+- 5개 화면 크기에서 실제 표시된 본 게임·연습 화면의 텍스트가 18px 미만인지 검사하고, PC에서는 선택 카드와 다음 조작 버튼이 가려지지 않는지 추가 검사했다. 연습 완주·저장 보호 검사와 본 게임 7시대 조작 검사도 통과했다.
